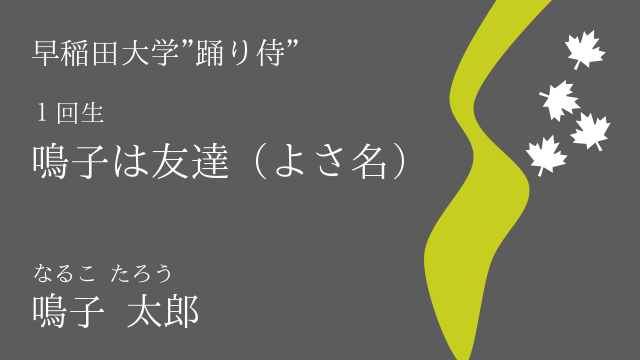
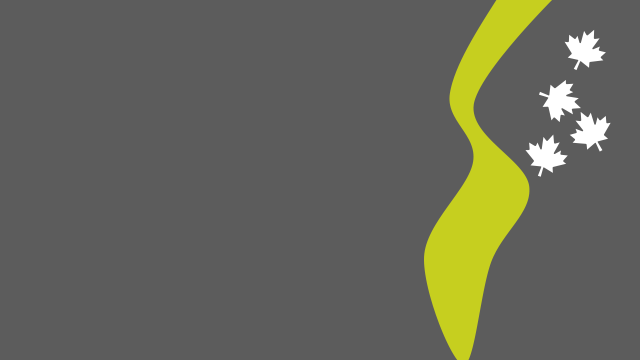
デザイン変更

diff --git a/app/assets/stylesheets/custom.scss b/app/assets/stylesheets/custom.scss
@@ -28,16 +28,16 @@ textarea {
 
 /* typography */
 
-h1, h2, h3, h4, h5, h6 {
+h1 {
+  font-size: 3em;
+  letter-spacing: -2px;
+  margin-bottom: 30px;
+  text-align: center;
+}
+
+h2, h3, h4, h5, h6 {
     line-height: 1;
     font-family: serif;
-}
-  
-h1 {
-    font-size: 3em;
-    letter-spacing: -2px;
-    margin-bottom: 30px;
-    text-align: center;
 }
   
   
@@ -178,42 +178,69 @@ header{
   text-align: center;
   background-color: white;
   margin-top: 165px;
+  line-height: 2.5;
+  h2{
+    font-size: 2.0em;
+    letter-spacing: 2.5px;
+  }
+  h3{
+    font-size: 1.2em;
+    letter-spacing: -1px;
+    margin-bottom: 30px;
+    margin-top: 30px;
+    text-align: center;
+    font-weight: normal;
+    color: #777;
+  }
+  ::placeholder{
+    font-size: 1.2em;
+  }
 }
 
-input, textarea, select, .uneditable-input {
-    border: 1px solid #bbb;
-    width: 100%;
-    margin-bottom: 17px;
+.form_content{
+  line-height: 1.6;
+  font-size: 1.3em;
+  font-weight: bold;
+
 }
-  
-#error_explanation {
-    color: red;
-    ul {
-      color: red;
-      margin: 0 0 30px 0;
-    }
-}
-    
-.field_with_errors {
-  @extend .has-error;
-  .form-control {
-    color: $state-danger-text;
+
+
+.submit{
+  background-color: white;
+  display: inline-block;
+  padding: 0.3em 1em;
+  text-decoration: none;
+  color: #67c5ff;
+  border: solid 2px #67c5ff;
+  border-radius: 3px;
+  width: 100%;
+  transition: .4s;
+  font-size: 1.5em;
+  line-height: 1.5;
+  border-radius: 8px;
+  :hover {
+    background: #67c5ff;
+    color: white;
+  }
+  :active{
+    background: #67c5ff;
+    color: white;
   }
 }
-  
-.checkbox {
-  margin-top: -10px;
-  margin-bottom: 10px;
-  span {
-    margin-left: 20px;
-    font-weight: normal;
-  }
+
+
+textarea, select, .uneditable-input {
+  border: 1px solid #bbb;
+  width: 100%;
+  margin-bottom: 17px;
+  font-size: 1.5em;
 }
-    
+
 #session_remember_me {
   width: auto;
   margin-left: 0;
 }
+
   
 
 
@@ -228,6 +255,7 @@ input, textarea, select, .uneditable-input {
     font-size: 4.5em;
     font-weight: bold;
     line-height: 2;
+    letter-spacing: 2.5px;
   }
   h3{
     font-size: 1.2em;
@@ -246,4 +274,6 @@ input, textarea, select, .uneditable-input {
 
 .w-640{
   width: 640px;
+  font-size: 1.5em;
+  line-height: 1.2;
 }
